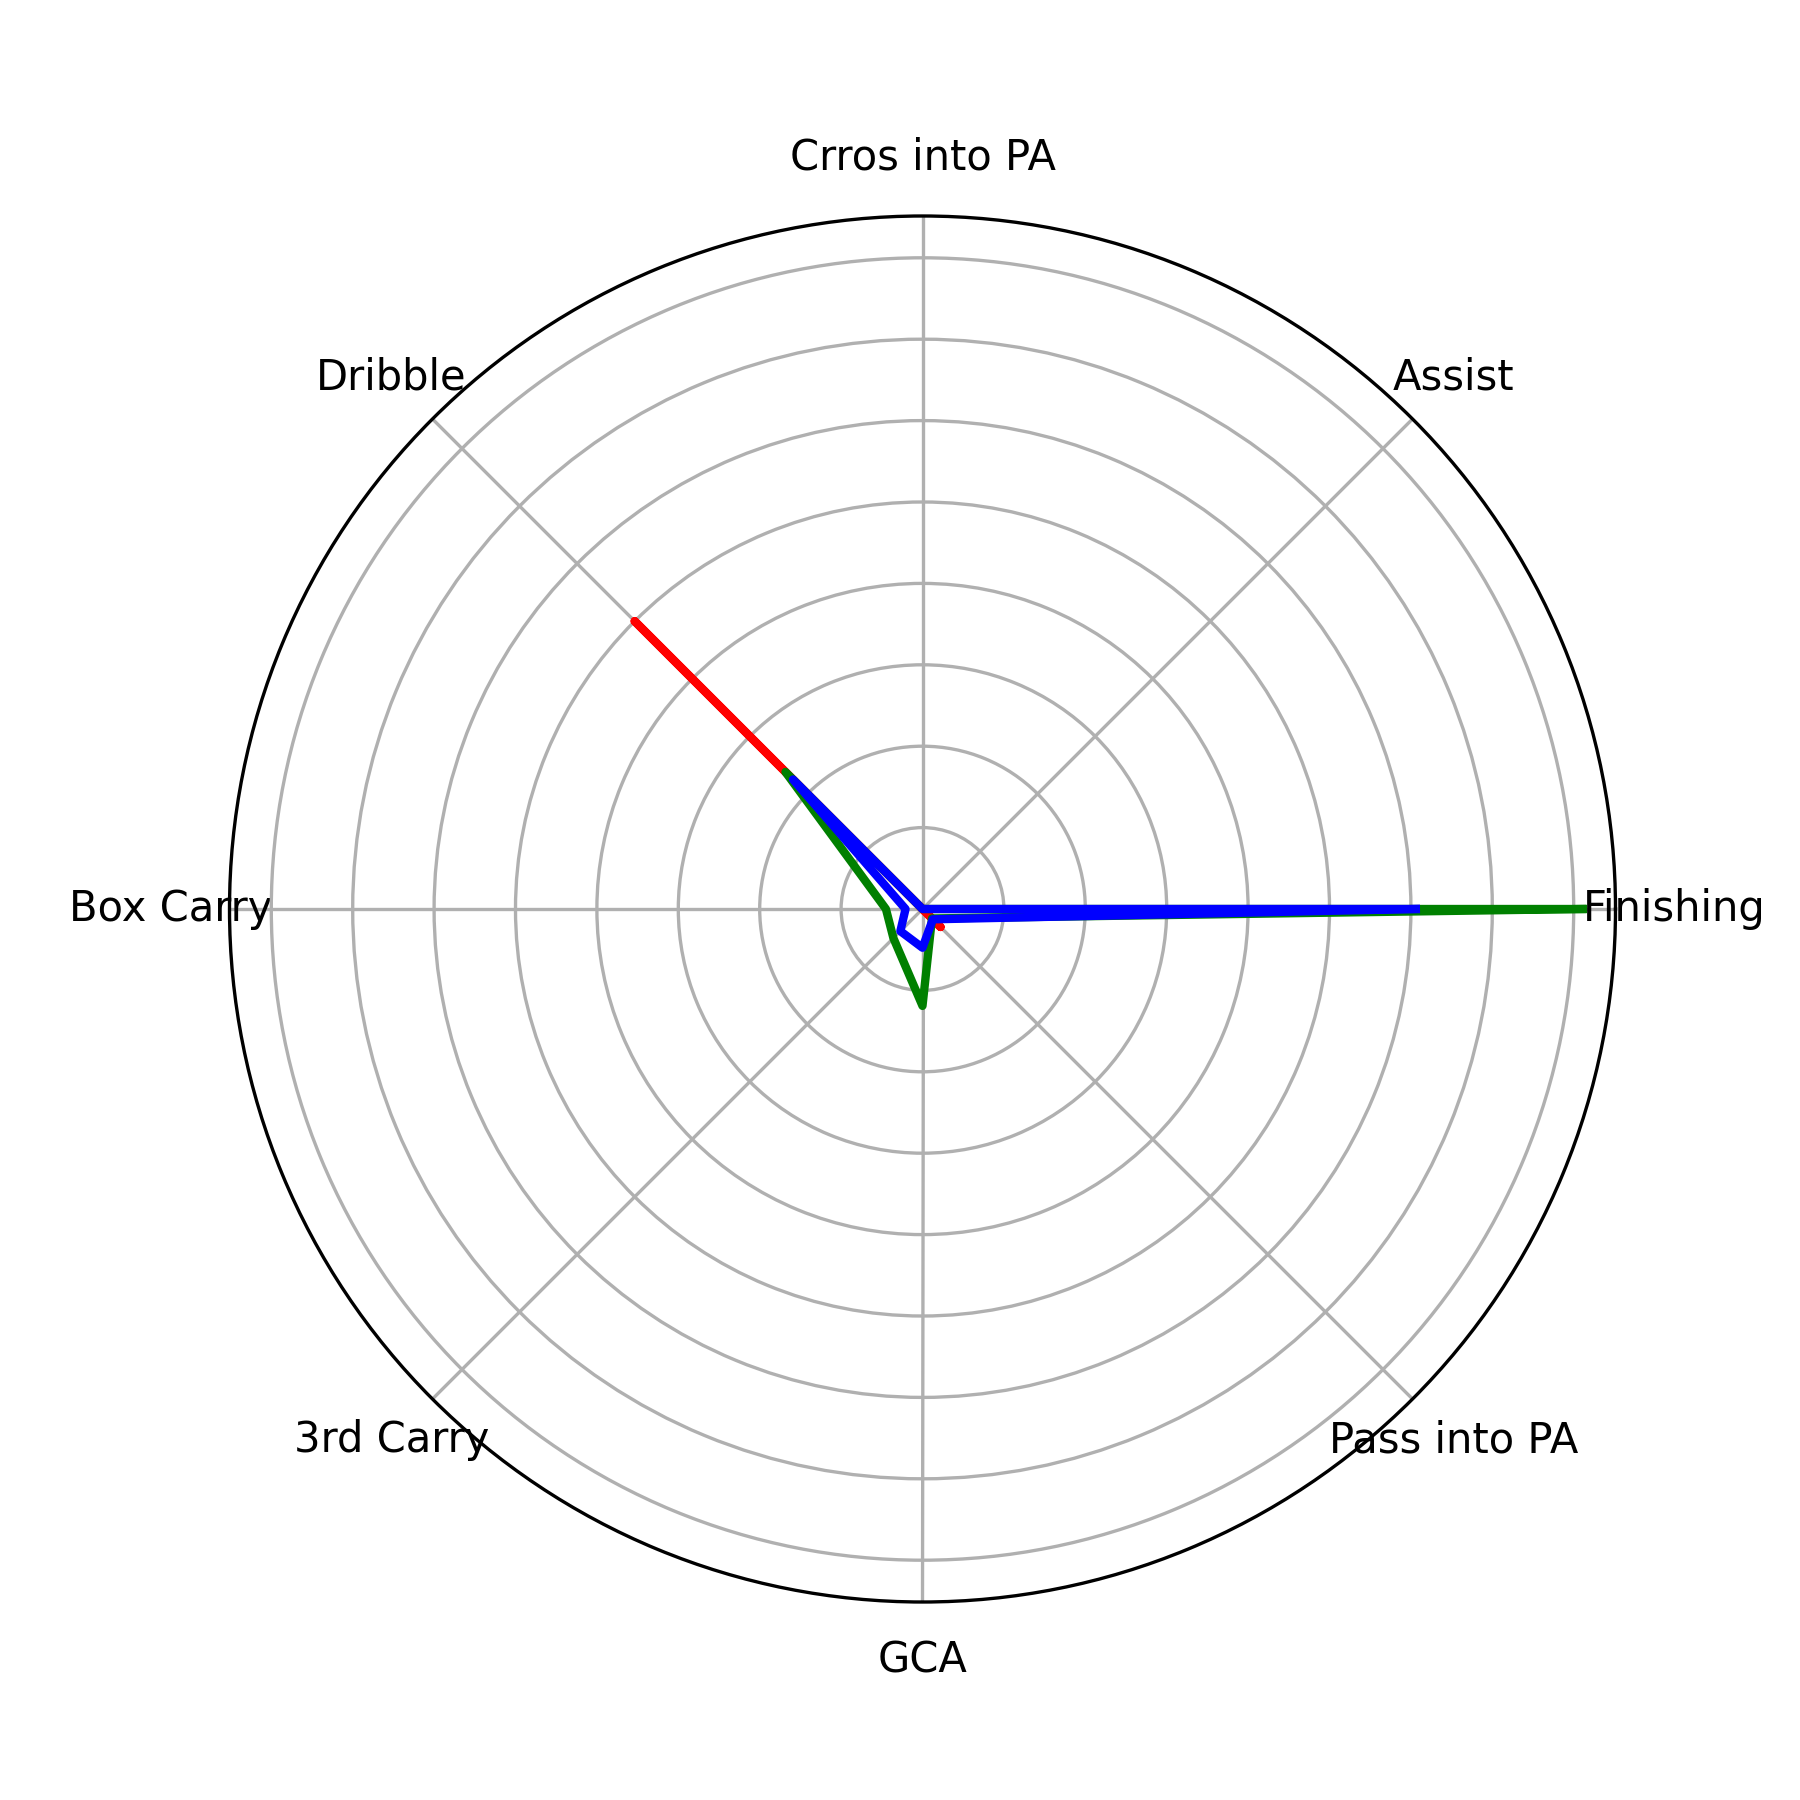
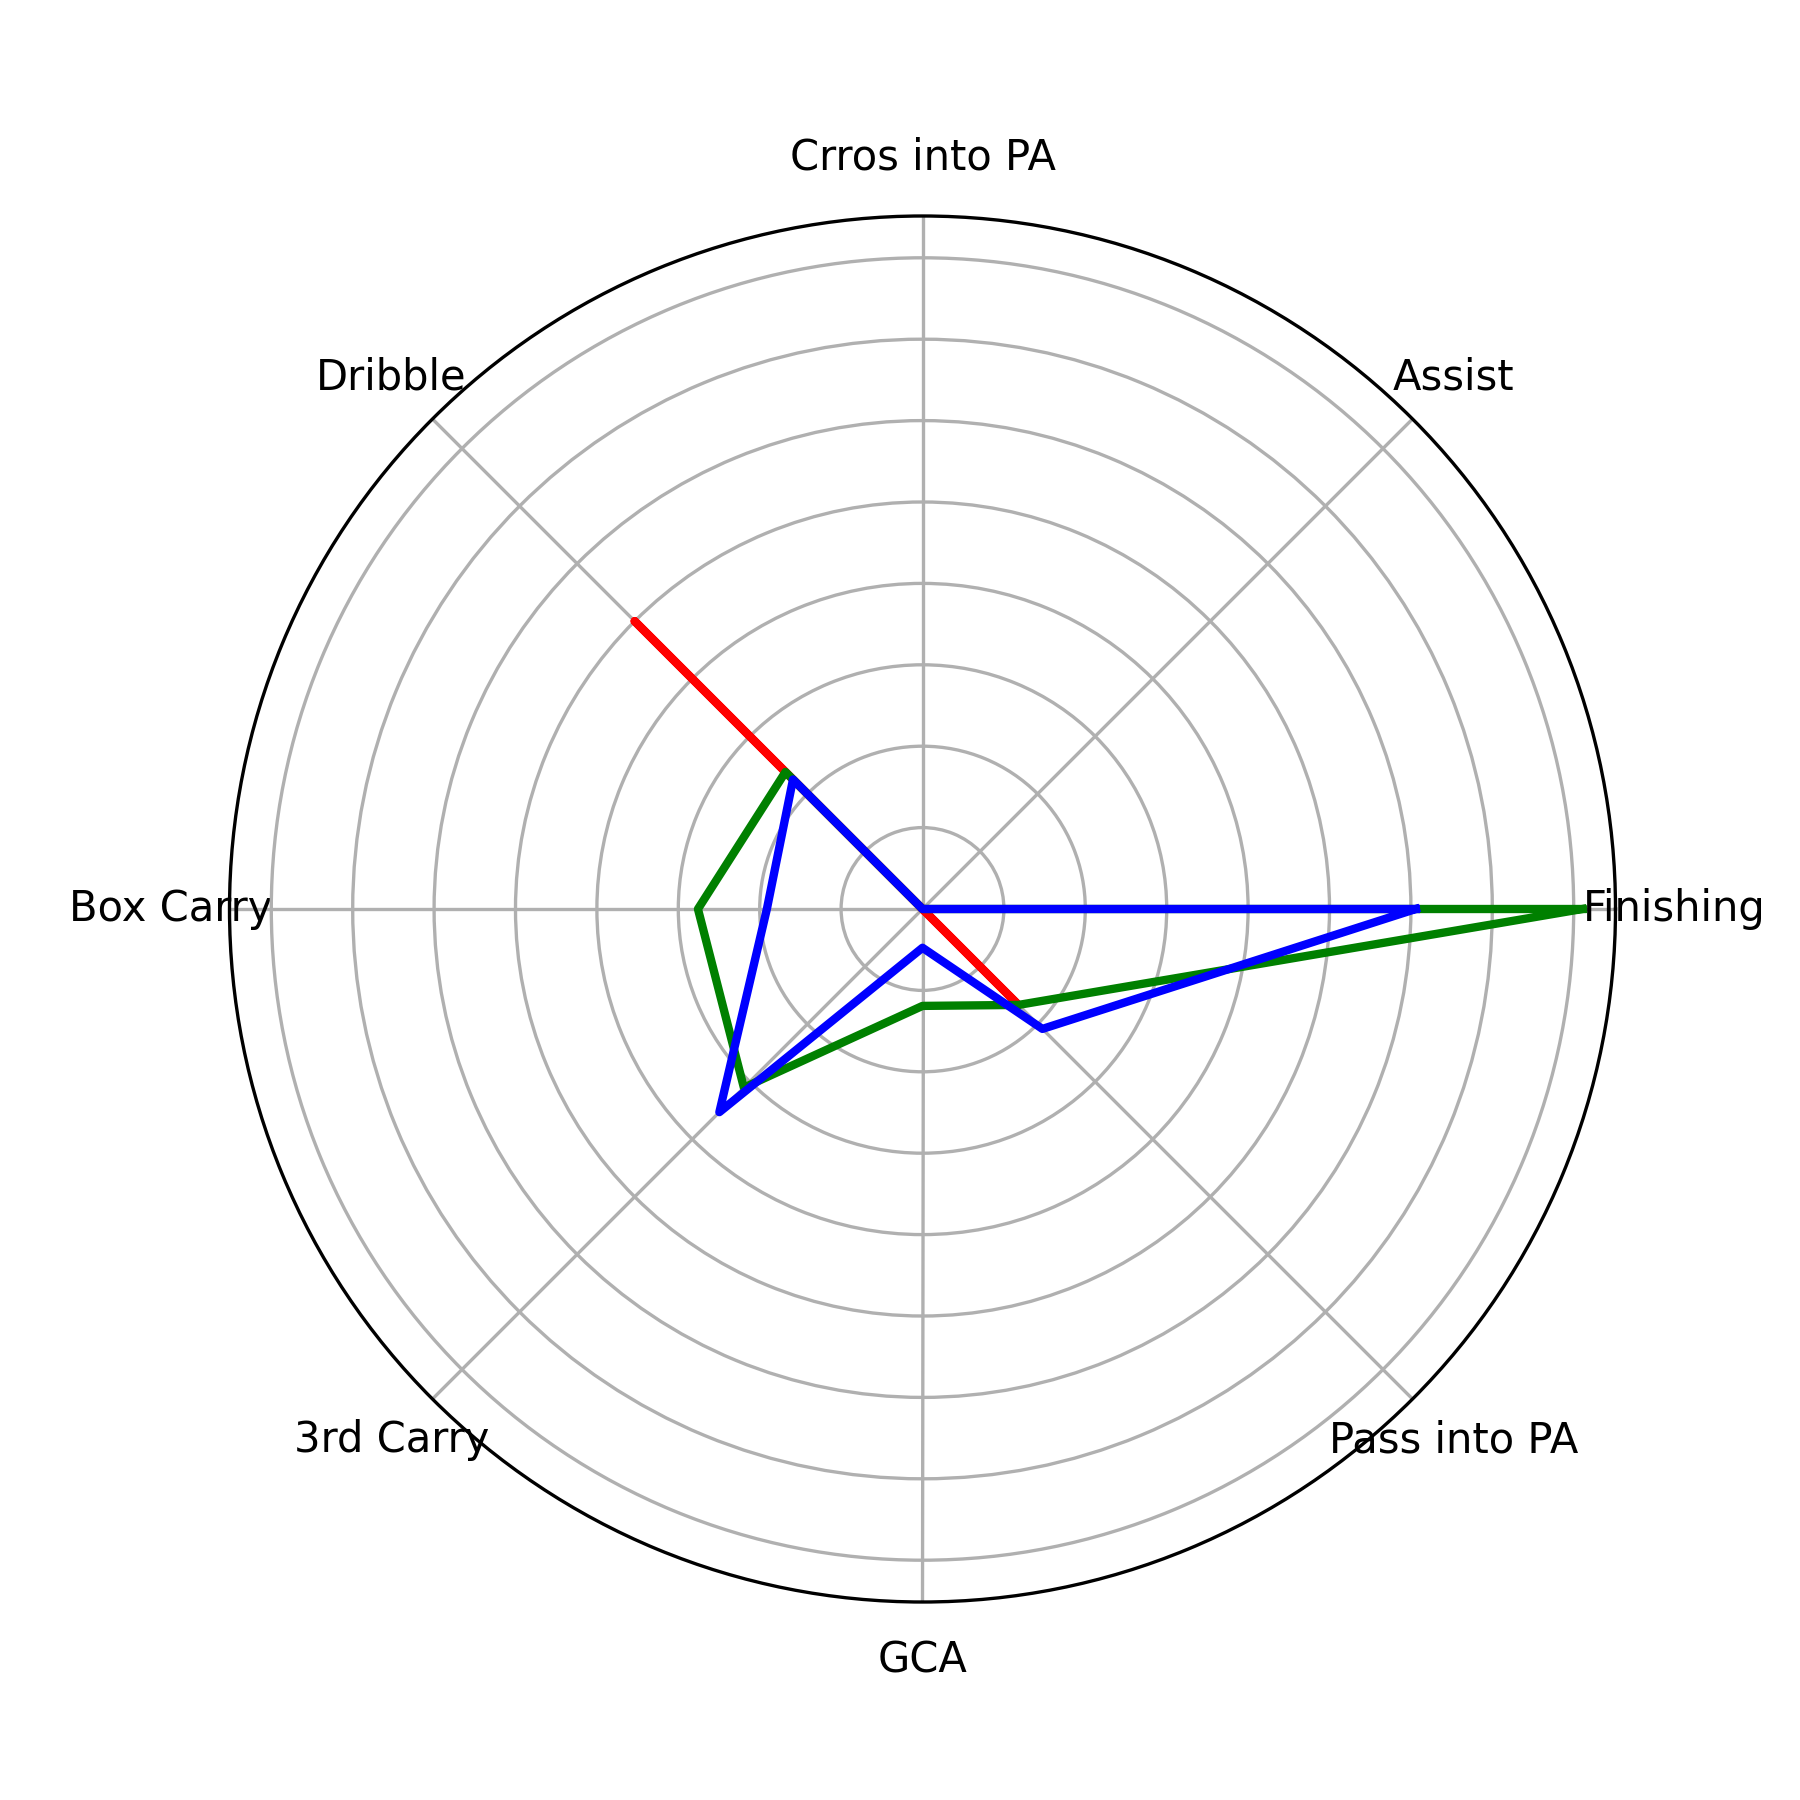
Radar 비교 스텟 수정, Scatter 비교 추가

Changed region(s): [[0.3733, 0.4356, 0.8711, 0.6222]]

diff --git a/VS_lw_player/lw_player_vs_radar.py b/VS_lw_player/lw_player_vs_radar.py
@@ -9,13 +9,13 @@ def dataget(url):
 
 def append_data(value, data):
     value.append((data['Performance Gls'].sum() / (data['Min'].sum() / 90)) / (data['Expected xG'].sum() / (data['Min'].sum() / 90)) if data['Expected xG'].sum() != 0 else 0.0)
-    value.append((data['Performance Ast'].sum() / (data['Min'].sum() / 90)) / (data['Expected xAG'].sum() / (data['Min'].sum() / 90)) if data['Expected xAG'].sum() != 0 else 0.0)
+    value.append((data['Performance Ast'].sum() / (data['Min'].sum() / 90)) / (data['xA'].sum() / (data['Min'].sum() / 90)) if data['xA'].sum() != 0 else 0.0)
     value.append((data['CrsPA'].sum() / (data['Min'].sum() / 90)) / (data['Pass Types Crs'].sum() / (data['Min'].sum() / 90)) if data['Pass Types Crs'].sum() != 0 else 0.0)
     value.append((data['Take-Ons Succ'].sum() / (data['Min'].sum() / 90)) / (data['Take-Ons Att'].sum() / (data['Min'].sum() / 90)) if data['Take-Ons Att'].sum() != 0 else 0.0)
-    value.append((data['Carries CPA'].sum() / (data['Min'].sum() / 90)) / (data['Carries Carries'].sum() / (data['Min'].sum() / 90)) if data['Carries Carries'].sum() != 0 else 0.0)
-    value.append((data['Carries Fin 3rd'].sum() / (data['Min'].sum() / 90)) / (data['Carries Carries'].sum() / (data['Min'].sum() / 90)) if data['Carries Carries'].sum() != 0 else 0.0)
+    value.append((data['Carries CPA'].sum() / (data['Min'].sum() / 90)) / (data['Carries PrgC'].sum() / (data['Min'].sum() / 90)) if data['Carries PrgC'].sum() != 0 else 0.0)
+    value.append((data['Carries Fin 3rd'].sum() / (data['Min'].sum() / 90)) / (data['Carries PrgC'].sum() / (data['Min'].sum() / 90)) if data['Carries PrgC'].sum() != 0 else 0.0)
     value.append((data['SCA GCA'].sum() / (data['Min'].sum() / 90)) / (data['SCA SCA'].sum() / (data['Min'].sum() / 90)) if data['SCA SCA'].sum() != 0 else 0.0)
-    value.append((data['PPA'].sum() / (data['Min'].sum() / 90)) / (data['Passes Cmp'].sum() / (data['Min'].sum() / 90)) if data['Passes Cmp'].sum() != 0 else 0.0)
+    value.append((data['PPA'].sum() / (data['Min'].sum() / 90)) / (data['Passes PrgP'].sum() / (data['Min'].sum() / 90)) if data['Passes PrgP'].sum() != 0 else 0.0)
 
 def fw_radar(player1, player2, player3):
     categories = ['Finishing', 'Assist', 'Crros into PA', 'Dribble', 'Box Carry', '3rd Carry', 'GCA', 'Pass into PA']

diff --git a/VS_fw_player/fw_player_vs_radar.py b/VS_fw_player/fw_player_vs_radar.py
@@ -9,11 +9,11 @@ def dataget(url):
 
 def append_data(value, data):
     value.append((data['Performance Gls'].sum() / (data['Min'].sum() / 90)) / (data['Expected xG'].sum() / (data['Min'].sum() / 90)) if data['Expected xG'].sum() != 0 else 0.0)
-    value.append((data['Performance Ast'].sum() / (data['Min'].sum() / 90)) / (data['Expected xAG'].sum() / (data['Min'].sum() / 90)) if data['Expected xAG'].sum() != 0 else 0.0)
+    value.append(((data['Performance Ast'].sum() / (data['Min'].sum() / 90)) / (data['xA'].sum() / (data['Min'].sum() / 90)) if data['xA'].sum() != 0 else 0.0)/10) #수치가 너무커서 비율 낮춤
     value.append((data['Touches Att Pen'].sum() / (data['Min'].sum() / 90)) / (data['Touches Touches'].sum() / (data['Min'].sum() / 90)) if data['Touches Touches'].sum() != 0 else 0.0)
     value.append((data['Touches Att 3rd'].sum() / (data['Min'].sum() / 90)) / (data['Touches Touches'].sum() / (data['Min'].sum() / 90)) if data['Touches Touches'].sum() != 0 else 0.0)
-    value.append((data['Carries CPA'].sum() / (data['Min'].sum() / 90)) / (data['Carries Carries'].sum() / (data['Min'].sum() / 90)) if data['Carries Carries'].sum() != 0 else 0.0)
-    value.append((data['Carries Fin 3rd'].sum() / (data['Min'].sum() / 90)) / (data['Carries Carries'].sum() / (data['Min'].sum() / 90)) if data['Carries Carries'].sum() != 0 else 0.0)
+    value.append((data['Carries CPA'].sum() / (data['Min'].sum() / 90)) / (data['Carries PrgC'].sum() / (data['Min'].sum() / 90)) if data['Carries PrgC'].sum() != 0 else 0.0)
+    value.append((data['Carries Fin 3rd'].sum() / (data['Min'].sum() / 90)) / (data['Carries PrgC'].sum() / (data['Min'].sum() / 90)) if data['Carries PrgC'].sum() != 0 else 0.0)
     value.append((data['SCA GCA'].sum() / (data['Min'].sum() / 90)) / (data['SCA SCA'].sum() / (data['Min'].sum() / 90)) if data['SCA SCA'].sum() != 0 else 0.0)
     value.append((data['Performance SoT'].sum() / (data['Min'].sum() / 90)) / (data['Performance Sh'].sum() / (data['Min'].sum() / 90)) if data['Performance Sh'].sum() != 0 else 0.0)
 

diff --git a/VS_mid_player/mid_player_vs_radar.py b/VS_mid_player/mid_player_vs_radar.py
@@ -9,12 +9,12 @@ def dataget(url):
 
 def append_data(value, data):
     value.append((data['Performance Gls'].sum() / (data['Min'].sum() / 90)) / (data['Expected xG'].sum() / (data['Min'].sum() / 90)) if data['Expected xG'].sum() != 0 else 0.0)
-    value.append((data['Performance Ast'].sum() / (data['Min'].sum() / 90)) / (data['Expected xAG'].sum() / (data['Min'].sum() / 90)) if data['Expected xAG'].sum() != 0 else 0.0)
+    value.append((data['Performance Ast'].sum() / (data['Min'].sum() / 90)) / (data['xA'].sum() / (data['Min'].sum() / 90)) if data['xA'].sum() != 0 else 0.0)
     value.append((data['SCA GCA'].sum() / (data['Min'].sum() / 90)) / (data['SCA SCA'].sum() / (data['Min'].sum() / 90)) if data['SCA SCA'].sum() != 0 else 0.0)
     value.append(((data['Tackles TklW'].sum() +  data['Int'].sum())/ (data['Min'].sum() / 90)) / (data['Tkl+Int'].sum() / (data['Min'].sum() / 90)) if data['Tkl+Int'].sum() != 0 else 0.0)
     value.append((data['Touches Att 3rd'].sum() / (data['Min'].sum() / 90)) / (data['Touches Touches'].sum() / (data['Min'].sum() / 90)) if data['Touches Touches'].sum() != 0 else 0.0)
     value.append((data['Passes Cmp'].sum() / (data['Min'].sum() / 90)) / (data['Passes Att'].sum() / (data['Min'].sum() / 90)) if data['Passes Att'].sum() != 0 else 0.0)
-    value.append((data['Carries Fin 3rd'].sum() / (data['Min'].sum() / 90)) / (data['Carries Carries'].sum() / (data['Min'].sum() / 90)) if data['Carries Carries'].sum() != 0 else 0.0)
+    value.append((data['Carries Fin 3rd'].sum() / (data['Min'].sum() / 90)) / (data['Carries PrgC'].sum() / (data['Min'].sum() / 90)) if data['Carries PrgC'].sum() != 0 else 0.0)
     value.append((data['Performance SoT'].sum() / (data['Min'].sum() / 90)) / (data['Performance Sh'].sum() / (data['Min'].sum() / 90)) if data['Performance Sh'].sum() != 0 else 0.0)
 
 def fw_radar(player1, player2, player3, player4, player5):

diff --git a/VS_Position/pos_vs_radar.py b/VS_Position/pos_vs_radar.py
@@ -9,7 +9,7 @@ def dataget(url):
 
 def append_data(value, data):
     value.append((data['Performance Gls'].sum() / (data['Min'].sum() / 90)) / (data['Expected xG'].sum() / (data['Min'].sum() / 90)) if data['Expected xG'].sum() != 0 else 0.0)
-    value.append((data['Performance Ast'].sum() / (data['Min'].sum() / 90)) / (data['Expected xAG'].sum() / (data['Min'].sum() / 90)) if data['Expected xAG'].sum() != 0 else 0.0)
+    value.append((data['Performance Ast'].sum() / (data['Min'].sum() / 90)) / (data['xA'].sum() / (data['Min'].sum() / 90)) if data['xA'].sum() != 0 else 0.0)
     value.append((data['Passes Cmp'].sum() / (data['Min'].sum() / 90)) / (data['Passes Att'].sum() / (data['Min'].sum() / 90)) if data['Passes Att'].sum() != 0 else 0.0)
     value.append((data['Take-Ons Succ'].sum() / (data['Min'].sum() / 90)) / (data['Take-Ons Att'].sum() / (data['Min'].sum() / 90)) if data['Take-Ons Att'].sum() != 0 else 0.0)
     value.append((data['Passes PrgP'].sum() / (data['Min'].sum() / 90)) / (data['Passes Cmp'].sum() / (data['Min'].sum() / 90)) if data['Passes Cmp'].sum() != 0 else 0.0)

diff --git a/VS_Position/pos_vs_scatter.py b/VS_Position/pos_vs_scatter.py
@@ -31,4 +31,4 @@ def pos(data, stat1, stat2):
     plt.show()
 
 data=dataget('csv/Cody-Gakpo/Cody-Gakpo_merged.csv')
-pos(data,'Carries Carries', 'Carries PrgC') #비교 스텟 바꿔가면서 반복
+pos(data,'xA', 'Performance Ast') #비교 스텟 바꿔가면서 반복
